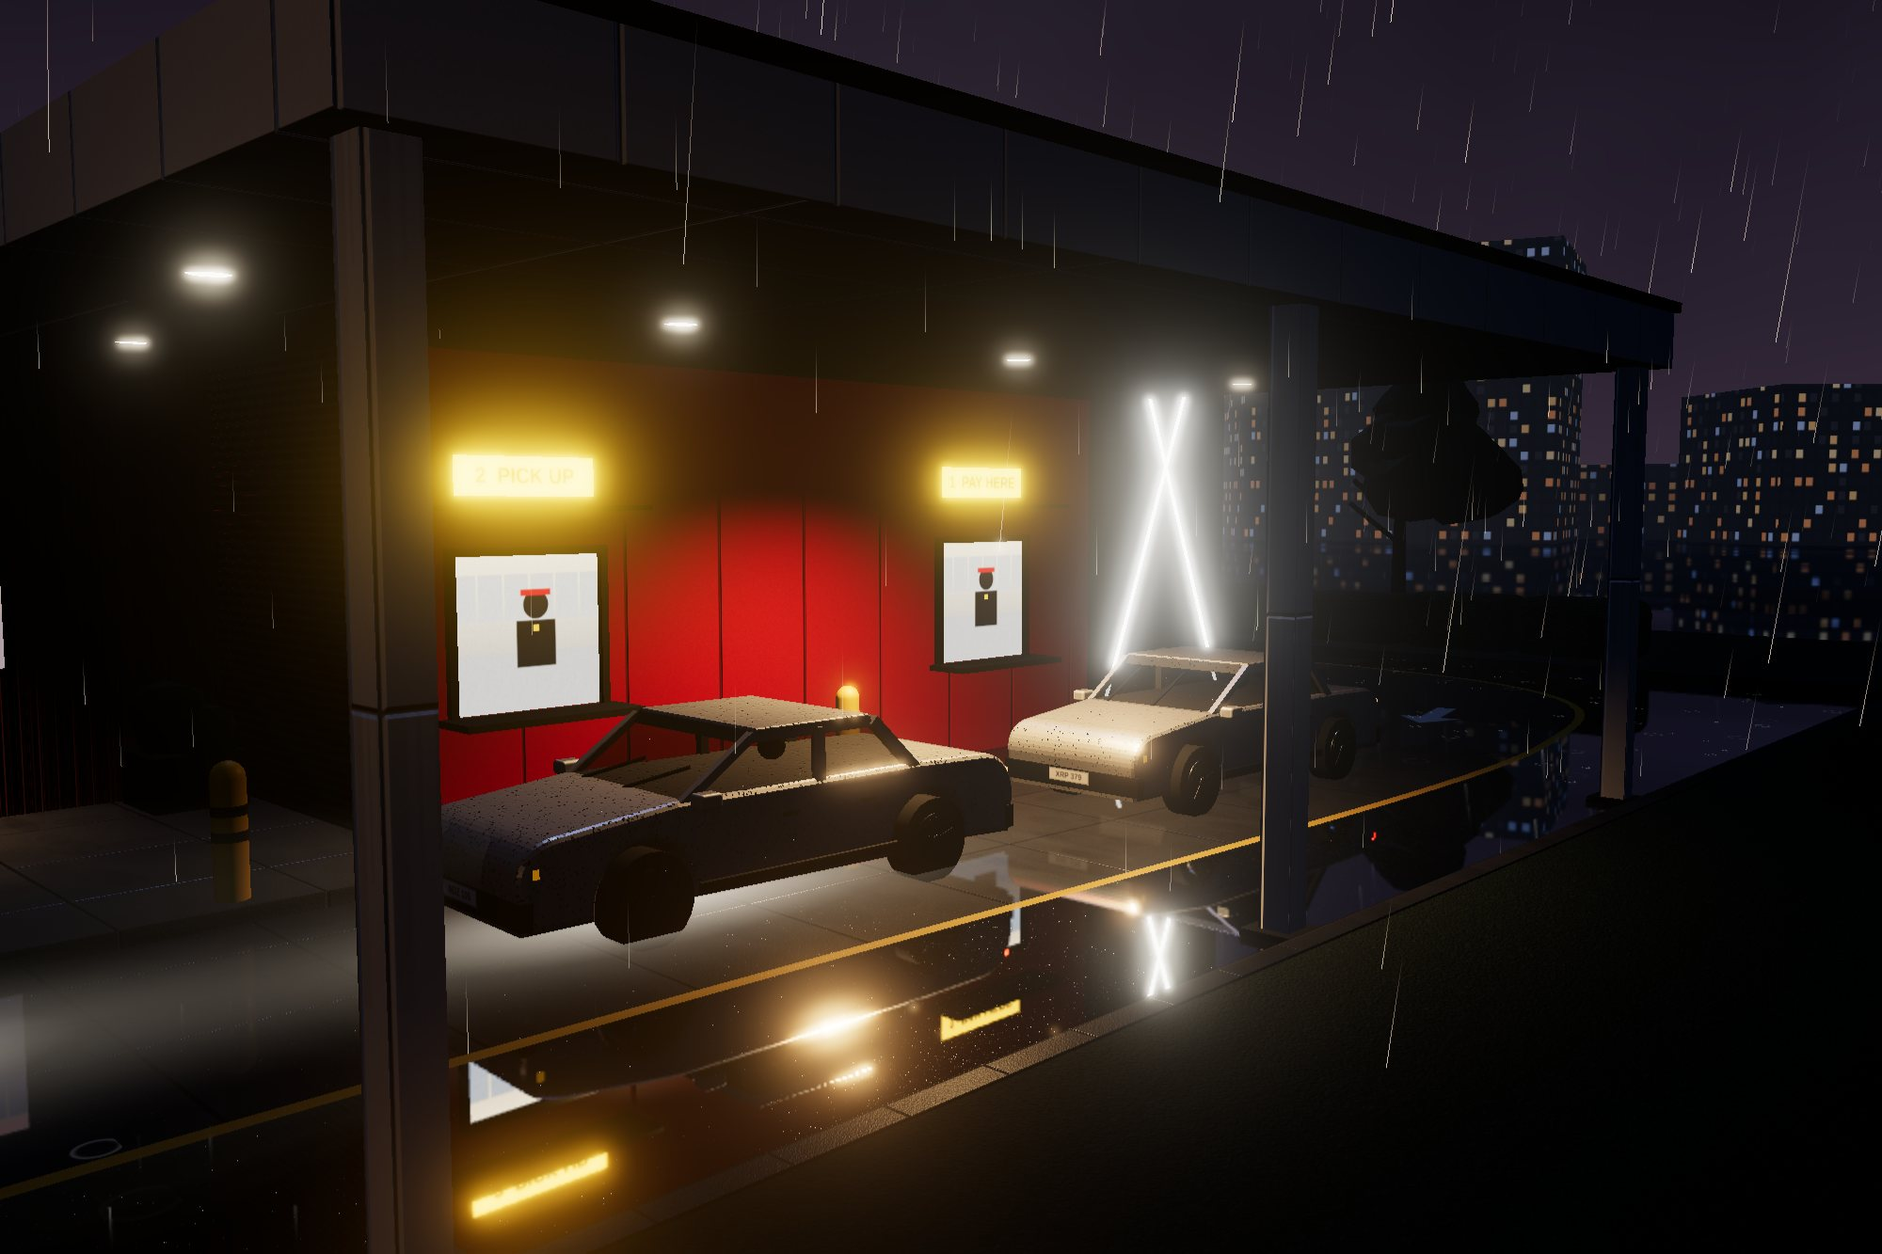
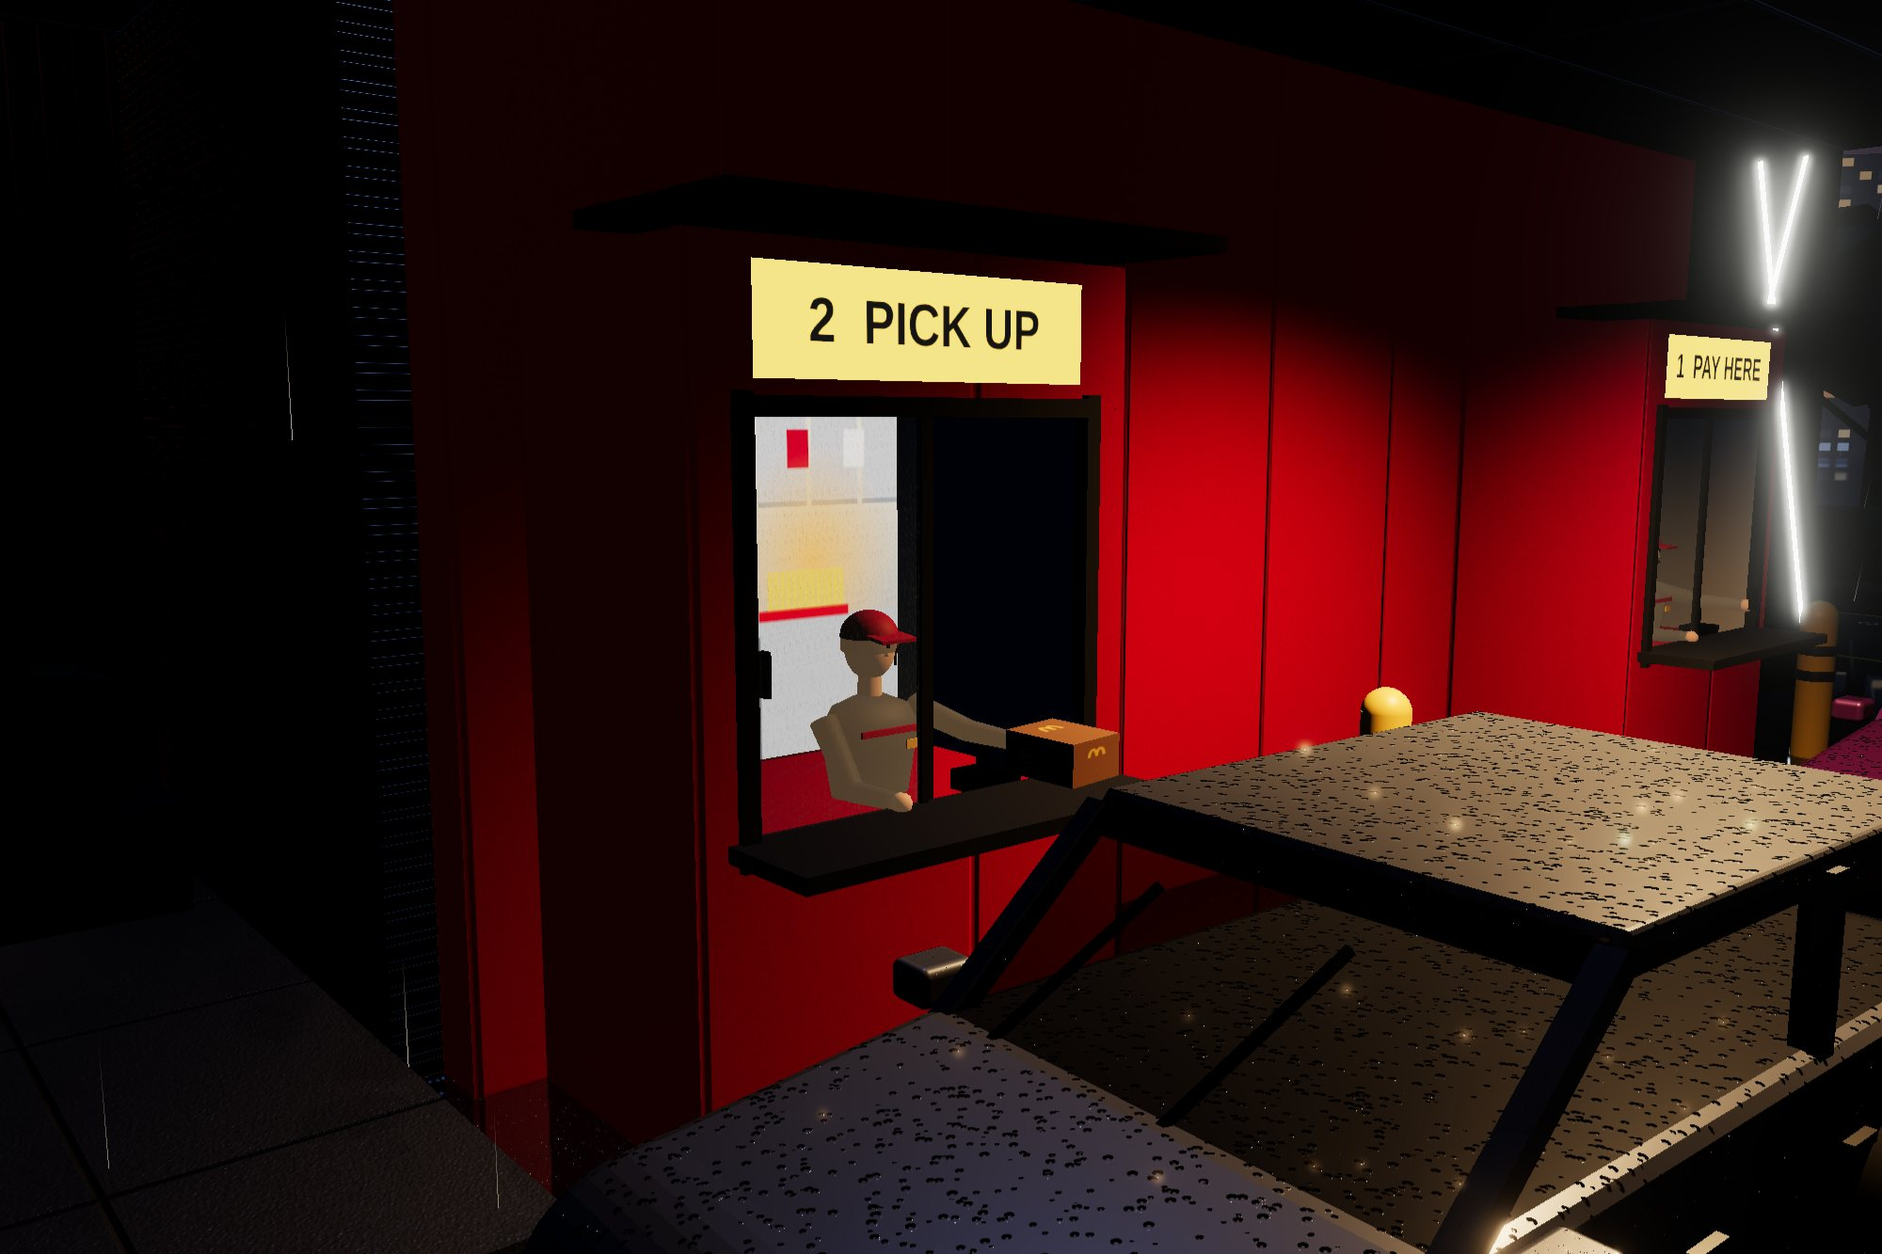
feat(drive-thru): staffed service windows, restrained glow
- the pay and pickup windows become booths projecting 1.2 m from the red
  wall (ledge about 0.6 m from a waiting car's door), each with a counter,
  till, POS screen, lit kitchen behind and a sliding window half
- a crew member in each booth (visor cap, headset, uniform stripe, badge):
  works the till between cars; when a car stops the window slides open
  and they lean out with a card reader (pay) or the order bag (pickup);
  the old floating bag is gone
- glow cut right back: bloom strength 0.55 -> 0.2, radius 0.45 -> 0.22,
  threshold 0.9 -> 1.05, so only LEDs, signs and lamps bloom, slightly
- drivers sit on the right, facing the windows
- ?cam=x,y,z,tx,ty,tz for exact stills; stills, case study and README
  updated

Claude-Session: https://claude.ai/code/session_01X94E3mkS9WyU9NzztKNGpt

diff --git a/cases/library/drive-thru/drive-thru.js b/cases/library/drive-thru/drive-thru.js
@@ -6,7 +6,8 @@
    page downloads no models and no images.
 
    URL parameters (used for the library stills): ?lang=en|zh, ?view=<name>
-   opens on a camera preset without the fly-in, ?hud=0 hides the panel. */
+   opens on a camera preset without the fly-in, ?cam=x,y,z,tx,ty,tz places the
+   camera exactly, ?hud=0 hides the panel. */
 
 import * as THREE from 'three';
 import { OrbitControls } from 'three/addons/controls/OrbitControls.js';
@@ -343,6 +344,17 @@ const kioskTex = toTex(draw(128, 256, (g, w, h) => {
   for (let i = 0; i < 6; i++) { g.fillStyle = pick(['#f2c14e', '#e8863a', '#d9a14c', '#c8102e']); g.fillRect(10 + (i % 2) * 58, 54 + ((i / 2) | 0) * 58, 50, 50); }
   g.fillStyle = '#2b8a3e'; g.fillRect(14, h - 34, w - 28, 22);
 }), { wrap: false });
+const kitchenBackTex = toTex(draw(256, 240, (g, w, h) => {
+  const gr = g.createLinearGradient(0, 0, 0, h); gr.addColorStop(0, '#fff1d6'); gr.addColorStop(1, '#8d9196'); g.fillStyle = gr; g.fillRect(0, 0, w, h);
+  for (let i = 0; i < 6; i++) { g.fillStyle = '#c9ccd1'; g.fillRect(i * 44 + 2, h * .08, 40, h * .22); g.fillStyle = '#9aa0a8'; g.fillRect(i * 44 + 2, h * .3, 40, 3); }
+  for (let i = 0; i < 5; i++) { g.fillStyle = pick(['#c8102e', '#ffc72c', '#f2f2f2', '#d9a14c']); g.fillRect(14 + i * 48, h * .13, 18, 22); }
+  const lamp = g.createRadialGradient(w * .7, h * .45, 4, w * .7, h * .45, 70); lamp.addColorStop(0, 'rgba(255,180,90,.9)'); lamp.addColorStop(1, 'rgba(255,180,90,0)');
+  g.fillStyle = lamp; g.fillRect(0, 0, w, h);
+  g.fillStyle = '#b8bcc2'; g.fillRect(0, h * .58, w, h * .42);
+  g.fillStyle = '#f2c84a'; for (let i = 0; i < 26; i++) g.fillRect(w * .55 + (i % 13) * 5, h * .5 - (i > 12 ? 8 : 0), 4, 16);
+  g.fillStyle = '#d0151f'; g.fillRect(w * .52, h * .56, 76, 6);
+  g.fillStyle = '#6d7178'; for (let i = 0; i < 4; i++) g.fillRect(20 + i * 30, h * .62, 24, h * .3);
+}), { wrap: false });
 const kitchenTex = toTex(draw(256, 240, (g, w, h) => {
   const gr = g.createLinearGradient(0, 0, 0, h); gr.addColorStop(0, '#fff3dc'); gr.addColorStop(1, '#9a9ea4'); g.fillStyle = gr; g.fillRect(0, 0, w, h);
   for (let i = 0; i < 6; i++) { g.fillStyle = '#c9ccd1'; g.fillRect(i * 44, h * .12, 40, h * .3); }
@@ -652,15 +664,38 @@ box(.1, .1, 14.2, M.black, 19.72, 5.22, 3.5);
 for (const z of [-3.3, 3.5, 10.3]) { box(.25, 4.6, .25, M.white, 19.4, 2.3, z); box(.45, .06, .45, M.steel, 19.4, .03, z); }
 for (const z of [-2, 2, 6, 9.5]) downlight(15.5, 4.59, z);
 box(.3, 4.6, 10, M.red, 12.15, 2.3, 1.8);
-const winMat = new THREE.MeshBasicMaterial({ map: kitchenTex, color: lin(1.2, 1.15, 1.05) });
-[-1, 5.5].forEach((z, k) => {
-  plane(1.6, 1.5, winMat, 12.31, 1.95, z, PI / 2);
-  plane(1.6, 1.5, M.glass, 12.33, 1.95, z, PI / 2).renderOrder = 2;
-  box(.55, .07, 1.9, M.steel, 12.58, 1.16, z);
-  for (const dz of [-.82, .82]) box(.08, 1.6, .08, M.steel, 12.34, 1.95, z + dz);
-  box(.08, .08, 1.72, M.steel, 12.34, 2.74, z);
-  box(.6, .05, 2.1, M.black, 12.6, 3.15, z);
-  plane(1.5, .38, new THREE.MeshBasicMaterial({ map: winSignTex[k], color: lin(1.7, 1.7, 1.7) }), 12.32, 3.45, z, PI / 2);
+const winMat = new THREE.MeshBasicMaterial({ map: kitchenBackTex, color: lin(1.05, 1, .95) });
+const bayInner = MS({ color: 0xd9dcdf, roughness: .35, metalness: .4 });
+const bayGlow = new THREE.MeshBasicMaterial({ color: lin(3, 2.6, 2) });
+const posTex = toTex(draw(128, 96, (g, w, h) => {
+  flatFill(g, w, h, '#0e1116'); g.fillStyle = '#c8102e'; g.fillRect(0, 0, w, 16);
+  for (let i = 0; i < 8; i++) { g.fillStyle = pick(['#ffc72c', '#2b8a3e', '#e8863a', '#3a6fd8']); g.fillRect(6 + (i % 4) * 30, 22 + ((i / 4) | 0) * 34, 26, 28); }
+}), { wrap: false });
+const posMat = new THREE.MeshBasicMaterial({ map: posTex, color: lin(1.3, 1.3, 1.3) });
+// each service window is a booth that projects 1.2 m from the red wall, so its
+// ledge ends about 0.6 m from a waiting car's door:
+// opening 1.6 m wide from 1.15 m to 2.65 m, a steel counter inside and a ledge outside
+const BAY_X0 = 12.3, BAY_X1 = 13.5, WIN_Y0 = 1.15, WIN_Y1 = 2.65;
+const BAYS = [-1, 5.5];
+BAYS.forEach((z, k) => {
+  const cx = (BAY_X0 + BAY_X1) / 2, d = BAY_X1 - BAY_X0;
+  box(d, WIN_Y0, 2.0, M.red, cx, WIN_Y0 / 2, z);                                   // below the opening
+  box(d, 3.2 - WIN_Y1, 2.0, M.red, cx, (WIN_Y1 + 3.2) / 2, z);                      // header
+  for (const s of [-1, 1]) {
+    box(d, WIN_Y1 - WIN_Y0, .2, M.red, cx, (WIN_Y0 + WIN_Y1) / 2, z + s * .9);     // cheeks
+    box(d - .04, WIN_Y1 - WIN_Y0, .02, bayInner, cx, (WIN_Y0 + WIN_Y1) / 2, z + s * .79);
+    box(.07, WIN_Y1 - WIN_Y0 + .1, .07, M.steel, BAY_X1, (WIN_Y0 + WIN_Y1) / 2, z + s * .8);
+  }
+  box(.07, .07, 1.67, M.steel, BAY_X1, WIN_Y1, z); box(.07, .07, 1.67, M.steel, BAY_X1, WIN_Y0, z);
+  plane(1.6, WIN_Y1 - WIN_Y0 + .3, winMat, BAY_X0 + .01, (WIN_Y0 + WIN_Y1) / 2, z, PI / 2);  // kitchen beyond
+  const glow = new THREE.Mesh(new THREE.PlaneGeometry(.5, 1.4), bayGlow); glow.rotation.x = PI / 2; glow.position.set(cx - .05, WIN_Y1 - .01, z); P.add(glow);
+  box(.3, .05, 1.56, M.steel, BAY_X1 - .16, 1.1, z);                                 // counter at the window
+  box(.16, .1, .24, M.black, BAY_X1 - .2, 1.18, z - .45);                            // till
+  const pos = plane(.24, .18, posMat, BAY_X1 - .27, 1.36, z - .45, -PI / 2); pos.rotation.x = -.3;
+  box(.04, .2, .04, M.black, BAY_X1 - .22, 1.25, z - .45);
+  box(.5, .06, 1.75, M.steel, BAY_X1 + .2, WIN_Y0 + .02, z);                          // outside ledge
+  box(.95, .06, 2.2, M.black, BAY_X1 - .05, 3.26, z);                                // awning
+  plane(1.5, .38, new THREE.MeshBasicMaterial({ map: winSignTex[k], color: lin(1.5, 1.5, 1.5) }), BAY_X1 + .005, 2.93, z, PI / 2);
 });
 const capGeo = new THREE.SphereGeometry(.13, 12, 6, 0, PI * 2, 0, PI / 2);
 for (const z of [-3.6, 2.25, 8.7]) {                            // bollards
@@ -824,7 +859,6 @@ const doors = [-1, 1].map(s => {
 });
 let doorOpen = 0;
 const bagMat = MS({ map: bagTex, roughness: .9 });
-const bag = new THREE.Mesh(new THREE.BoxGeometry(.3, .38, .2), bagMat); bag.position.set(12.8, 1.45, 5.5); bag.visible = false; scene.add(bag);
 
 // ---------------------------------------------------------------- lights
 const hemi = new THREE.HemisphereLight(0x3a4a72, 0x0c0c12, .55); scene.add(hemi);
@@ -984,7 +1018,7 @@ function makeCar(lit = true, type = pick(['sedan', 'sedan', 'suv', 'hatch'])) {
   const paint = new THREE.MeshPhysicalMaterial({ color: pick(carCols), metalness: .55, roughness: .32, clearcoat: 1, clearcoatRoughness: .12, clearcoatNormalMap: dropNormal, clearcoatNormalScale: new THREE.Vector2(.35, .35) });
   g.add(new THREE.Mesh(C.paint, paint), new THREE.Mesh(C.trim, trimMat), new THREE.Mesh(C.chrome, M.chrome));
   const cab = new THREE.Mesh(C.cabin, glassCar); cab.renderOrder = 1; g.add(cab);
-  const drv = new THREE.Mesh(driverGeo, driverMat); drv.position.set(.38, T.H + .3, (T.roofF + T.roofB) / 2 + .1); drv.visible = lit; g.add(drv);
+  const drv = new THREE.Mesh(driverGeo, driverMat); drv.position.set(-.38, T.H + .3, (T.roofF + T.roofB) / 2 + .1); drv.visible = lit; g.add(drv);
   const wheels = [];
   for (const [x, z] of [[1, C.wb], [-1, C.wb], [1, -C.wb], [-1, -C.wb]]) {
     const w = new THREE.Group(); w.position.set(x * .79 * xs, .36, z);
@@ -1058,7 +1092,7 @@ function updateCars(dt) {
     if ((!last || last.s > 16) && inLot < 9) addCar(0, 0, 11);
     spawnT = rand(5, 10);
   }
-  let pickupWait = null, orderWait = false;
+  let payWait = null, pickupWait = null, orderWait = false;
   const blink = Math.sin(time * 9) > 0;
   for (let i = 0; i < cars.length; i++) {
     const c = cars[i], ahead = i > 0 ? cars[i - 1] : null;
@@ -1074,6 +1108,7 @@ function updateCars(dt) {
     if (c.stop < 3 && c.s >= stops[c.stop] - .25 && c.v < .4) {
       if (c.wait === null) c.wait = rand(...waits[c.stop]);
       c.wait -= dt;
+      if (c.stop === 1) payWait = c.wait;
       if (c.stop === 2) pickupWait = c.wait;
       if (c.stop === 0) orderWait = true;
       if (c.wait <= 0) { c.stop++; c.wait = null; if (c.stop === 3) served++; }
@@ -1085,8 +1120,7 @@ function updateCars(dt) {
     placeCar(c); animCar(c, dt);
   }
   while (cars.length && cars[0].s >= L - .5) { const c = cars.shift(); freeCar(c); if (follow === c) follow = null; }
-  bag.visible = pickupWait !== null && pickupWait < 2.2;
-  if (bag.visible) bag.position.x = 12.8 + (2.2 - pickupWait) * .5;
+  winWait[0] = payWait; winWait[1] = pickupWait;
   indMat.color.setRGB(.05, orderWait ? (Math.sin(time * 10) > 0 ? 4 : 1) : .3, .05);
 
   trafficT -= dt;
@@ -1229,6 +1263,57 @@ for (const r of routes) {
 for (const [x, z, ry] of [[-6.4, 11.6, .4], [-1.6, 11.9, -.6]]) {   // waiting under the canopy, one on the phone
   const p = makePerson({ raincoat: false }); p.g.position.set(x, .15, z); p.g.rotation.y = ry; p.umb.visible = false; p.umbK = 0; p.idle = true;
   pose(p, 0, false); p.arms[1].sh.rotation.set(-.4, 0, -.25); p.arms[1].el.rotation.x = -2.2; people.push(p);
+}
+// crew at the two windows: visor cap, headset, uniform; they work the till,
+// slide the window open when a car arrives, then reach out to it
+const winWait = [null, null];
+const crew = BAYS.map((z, k) => {
+  const p = makePerson({ raincoat: false });
+  p.umb.visible = false; p.umbK = 0; p.idle = true; p.isCrew = true;
+  p.mats[0].color.set(k ? 0x1f2329 : 0x2a2d33); p.mats[1].color.set(0x15171b);
+  for (const m of p.mats) m.emissive.setRGB(.09, .06, .035);   // warm fill from the kitchen behind them (no extra light)
+  const cap = new THREE.Mesh(new THREE.SphereGeometry(.118, 16, 8, 0, PI * 2, 0, PI * .5).scale(.95, .9, 1.05), MS({ color: 0xc8102e, roughness: .6 }));
+  cap.position.y = 1.77; p.g.add(cap);
+  const brim = new THREE.Mesh(new THREE.BoxGeometry(.17, .014, .11), cap.material); brim.position.set(0, 1.78, .14); brim.rotation.x = .12; p.g.add(brim);
+  const band = new THREE.Mesh(new THREE.TorusGeometry(.118, .007, 6, 18, PI), M.black); band.position.y = 1.74; band.rotation.y = PI / 2; p.g.add(band);
+  const cup = new THREE.Mesh(new THREE.CylinderGeometry(.03, .03, .02, 10).rotateZ(PI / 2), M.black); cup.position.set(.115, 1.72, 0); p.g.add(cup);
+  const mic = strut([.12, 1.7, .01], [.05, 1.67, .1], .006, M.black, p.g);
+  const badge = new THREE.Mesh(new THREE.BoxGeometry(.06, .035, .01), MS({ color: 0xffc72c })); badge.position.set(.09, 1.36, .155); p.g.add(badge);
+  const stripe = new THREE.Mesh(new THREE.BoxGeometry(.3, .025, .012), cap.material); stripe.position.set(0, 1.42, .148); p.g.add(stripe);
+  const held = k
+    ? new THREE.Mesh(new THREE.BoxGeometry(.26, .32, .16), bagMat)                          // order bag
+    : new THREE.Mesh(new THREE.BoxGeometry(.07, .03, .14), MS({ color: 0x111111, roughness: .4 }));   // card reader
+  held.position.set(0, k ? -.2 : -.04, k ? 0 : .05); p.arms[1].hn.add(held); held.visible = false;
+  pose(p, 0, false);
+  p.g.position.set(12.95, 0, z - .05); p.g.rotation.y = PI / 2;   // centred; the right hand works the -z half
+  // the sliding half of the window (the other half is fixed glass)
+  const frameMat = M.steel;
+  const fixed = new THREE.Group(); fixed.position.set(BAY_X1 - .03, 0, z + .4); scene.add(fixed);
+  const sliding = new THREE.Group(); sliding.position.set(BAY_X1 - .06, 0, z - .4); scene.add(sliding);
+  for (const g of [fixed, sliding]) {
+    const gl = new THREE.Mesh(new THREE.PlaneGeometry(.78, WIN_Y1 - WIN_Y0 - .04), M.glass); gl.rotation.y = PI / 2; gl.position.y = (WIN_Y0 + WIN_Y1) / 2; gl.renderOrder = 2; g.add(gl);
+    for (const s of [-1, 1]) box(.03, WIN_Y1 - WIN_Y0 - .04, .03, frameMat, 0, (WIN_Y0 + WIN_Y1) / 2, s * .385, g);
+  }
+  box(.05, .16, .02, M.black, 0, 1.75, .33, sliding);    // finger pull
+  return { p, z, k, held, sliding, open: 0, reach: 0, activeT: 0, ph: rand(0, 6) };
+});
+function updateCrew(dt) {
+  for (const c of crew) {
+    const w = winWait[c.k], active = w !== null;
+    c.activeT = active ? c.activeT + dt : 0;
+    c.open += ((active ? 1 : 0) - c.open) * Math.min(1, dt * 3);
+    const wantReach = active && c.activeT > .7 && w > .35 ? 1 : 0;
+    c.reach += (wantReach - c.reach) * Math.min(1, dt * 4);
+    c.sliding.position.z = c.z - .4 + c.open * .76;
+    const [AL, AR] = c.p.arms, r = c.reach, tt = time * 2 + c.ph;
+    // idle: both hands at the till, a little typing; serving: right arm out through the window
+    AL.sh.rotation.set(-.55 + Math.sin(tt * 2.1) * .03 * (1 - r), 0, .08); AL.el.rotation.x = -1.05;
+    AR.sh.rotation.set(THREE.MathUtils.lerp(-.55, -1.42, r), 0, THREE.MathUtils.lerp(-.08, .1, r));
+    AR.el.rotation.x = THREE.MathUtils.lerp(-1.05 + Math.sin(tt * 2.7) * .05, -.12, r);
+    c.p.g.position.x = 12.95 + r * .12;
+    c.p.g.rotation.y = PI / 2 + THREE.MathUtils.lerp(Math.sin(time * .5 + c.ph) * .35 - .25, 0, Math.max(r, c.open * .6));
+    c.held.visible = r > .35;
+  }
 }
 const diners = [];
 for (const i of [0, 3, 5, 6, 9, 10]) {
@@ -1438,7 +1523,7 @@ composer.addPass(new ShaderPass({
       gl_FragColor = vec4(min(c.rgb, vec3(48.0)), c.a);
     }`,
 }));
-const bloom = new UnrealBloomPass(new THREE.Vector2(innerWidth, innerHeight), .55, .45, .9);
+const bloom = new UnrealBloomPass(new THREE.Vector2(innerWidth, innerHeight), .2, .22, 1.05);   // a restrained halo, not a haze
 composer.addPass(bloom);
 composer.addPass(new OutputPass());
 
@@ -1467,6 +1552,8 @@ document.querySelectorAll('.btns button').forEach(b => b.onclick = () => setView
 {
   const v = params.get('view');
   if (v && views[v]) { setView(v); camera.position.copy(tween.p1); controls.target.copy(tween.t1); tween = null; }
+  const cam = params.get('cam')?.split(',').map(Number);   // ?cam=x,y,z,targetX,targetY,targetZ for stills
+  if (cam?.length === 6 && cam.every(Number.isFinite)) { camera.position.set(cam[0], cam[1], cam[2]); controls.target.set(cam[3], cam[4], cam[5]); }
 }
 $('tg').onclick = () => { const b = $('body'); const h = b.style.display === 'none'; b.style.display = h ? '' : 'none'; $('tg').textContent = h ? '–' : '+'; };
 $('lang').onclick = () => {
@@ -1509,9 +1596,10 @@ renderer.setAnimationLoop(() => {
   const now = performance.now(), dt = Math.min((now - last) / 1000, .05); last = now; time += dt;
   const queue = updateCars(dt);
   const inside = updatePeople(dt);
+  updateCrew(dt);
 
   let fl = 0;
-  if ($('cFlash').checked && !params.has('view')) { nextBolt -= dt; if (nextBolt <= 0) { boltT = 0; nextBolt = rand(9, 22); } }
+  if ($('cFlash').checked && !params.has('view') && !params.has('cam')) { nextBolt -= dt; if (nextBolt <= 0) { boltT = 0; nextBolt = rand(9, 22); } }
   if (boltT >= 0) {
     boltT += dt; const tt = boltT;
     fl = tt < .07 ? 1 : tt < .14 ? .15 : tt < .24 ? .85 : tt < .9 ? .85 * Math.exp(-(tt - .24) * 7) : 0;

diff --git a/cases/library/drive-thru/project.html b/cases/library/drive-thru/project.html
@@ -117,9 +117,10 @@
 					<tr><th>Stops per car</th><td>Order board 4–7 s · pay window 2–3.5 s · pickup window 3.5–6 s</td></tr>
 					<tr><th>Car speed</th><td>5.2 m/s in the lane · 12 m/s on the road · 6.9 m nose to nose in the queue</td></tr>
 					<tr><th>Car types</th><td>Sedan, SUV, hatchback — extruded from side profiles, with alloy wheels and wipers</td></tr>
-					<tr><th>People</th><td>10 walking routes · 2 waiting under the canopy · 6 diners inside · 1.15–1.5 m/s</td></tr>
+					<tr><th>People</th><td>10 walking routes · 2 waiting under the canopy · 6 diners inside · 2 crew at the windows · 1.15–1.5 m/s</td></tr>
 					<tr><th>Rain</th><td>30,000 streaks over 90 × 90 m around the camera · 2,600 splashes</td></tr>
 					<tr><th>Building</th><td>24 × 14 m, 7.4 m to the parapet · canopies at 3.65 m and 4.6 m</td></tr>
+					<tr><th>Service windows</th><td>Booths projecting 1.2 m from the wall · opening 1.6 × 1.5 m from 1.15 m · ledge about 0.6 m from the car door</td></tr>
 					<tr><th>Clearance bar</th><td>3.1 m, at the lane entrance</td></tr>
 					<tr><th>Camera presets</th><td>9, including the dining room and a chase camera behind the newest car</td></tr>
 				</tbody>
@@ -128,6 +129,11 @@
 
 		<section>
 			<h2>How it is built</h2>
+			<p>
+				Both windows are booths that stand out from the wall, with a counter, a till and a crew member
+				behind each one. When a car stops, the window slides open and the crew member leans out: a card
+				reader at the pay window, the order bag at the pickup window. Between cars they turn back to the till.
+			</p>
 			<p>
 				The lane is one spline. Every stop, painted arrow, lane line and the concrete lane surface is placed
 				by distance along it, so moving a window moves its stop, its arrow and the point where cars brake.
@@ -142,7 +148,7 @@
 				than thousands.
 			</p>
 			<img class="plate-shot" src="assets/window.jpg" width="2000" height="1333"
-				alt="Two cars waiting under a lit drive-thru canopy beside a red wall with a pay window and a pickup window, each with a glowing sign above it; their headlights and the canopy lights reflect in the wet lane." />
+				alt="The pickup window at night: a red service booth with a lit '2 Pick up' sign, its window slid open and a crew member in a red cap leaning out to hand a paper bag to the waiting car; the pay window glows further along." />
 		</section>
 
 		<section>

diff --git a/cases/library/drive-thru/README.md b/cases/library/drive-thru/README.md
@@ -27,11 +27,12 @@ every sign in the scene (English by default; the choice is remembered).
 | --- | --- |
 | `?lang=en` / `?lang=zh` | open in that language |
 | `?view=<name>` | open on a camera preset with no fly-in, and no lightning (`overview`, `door`, `inside`, `window`, `top`, `street`, `order`, `pylon`) |
+| `?cam=x,y,z,tx,ty,tz` | place the camera exactly, looking at the target point (also no lightning) |
 | `?hud=0` | hide the panel |
 
 The stills were taken with `?hud=0&view=overview` (hero 1500 × 1000 at
-4⁄3 scale, thumb 1200 × 900 at 2⁄3), `?hud=0&view=window` and
-`?hud=0&view=door`. The page sets `document.body.dataset.ready = "1"` after
+4⁄3 scale, thumb 1200 × 900 at 2⁄3), `?hud=0&cam=17.6,2.6,8.9,13.2,1.8,5.2` (taken while the pickup crew is
+reaching out) and `?hud=0&view=door`. The page sets `document.body.dataset.ready = "1"` after
 its third frame, which is what to wait for before a screenshot.
 
 ## Files
@@ -54,6 +55,13 @@ its third frame, which is what to wait for before a screenshot.
 - **People** are jointed (hip, knee, shoulder, elbow), fade in and out at the
   ends of their routes, close their umbrellas under a roof and yield to
   moving cars; cars yield to people in their path.
+- **Crew** stand in the two service booths (`crew`, `updateCrew`). They work
+  the till between cars; when a car stops at their window the sliding half
+  opens and they reach out with a card reader (pay) or the bag (pickup).
+  Their fill light is a small emissive term on their materials, not a lamp.
+- **Glow is restrained on purpose** (`UnrealBloomPass` strength 0.2, radius
+  0.22, threshold 1.05): only the LED strips, signs and lamps bloom, and only
+  a little.
 - **Signage** is drawn by `dtex`, which registers a redraw; the language
   switch calls every redraw. Add a sign there and it is bilingual for free —
   the strings live in `S.en` / `S.zh`, the panel's in `UI.en` / `UI.zh`.
